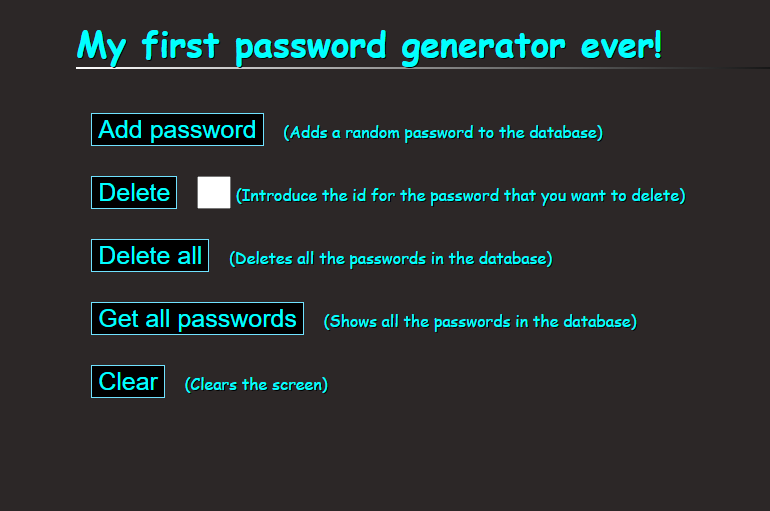
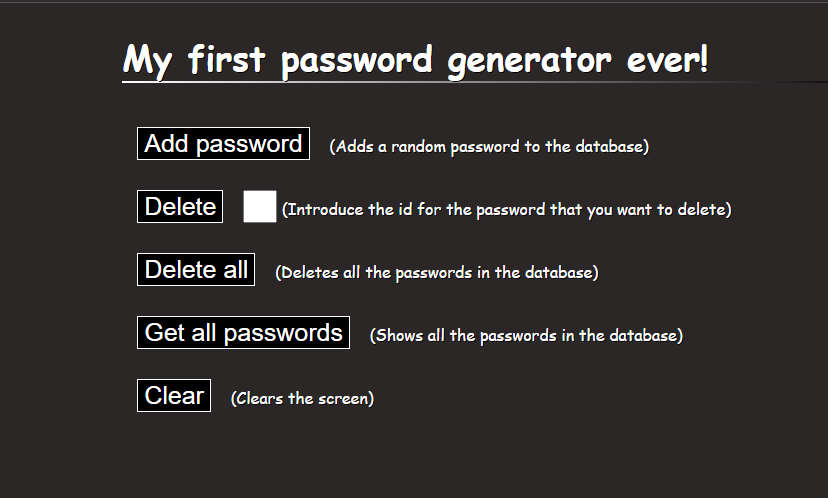
Changing image

Changed region(s): [[0.0935, 0.2108, 0.9039, 0.8434], [0.0935, 0.0602, 0.8727, 0.1807]]

diff --git a/src/main/resources/static/style.css b/src/main/resources/static/style.css
@@ -1,12 +1,12 @@
 body {
     background-color: rgb(44, 39, 39);
-    color: aqua;
+    color: white;
     font-family: cursive;
     text-shadow: 1px 1px rgb(0, 0, 0);
 }
 
 button:hover {
-    color: rgb(61, 232, 255);
+    color: white;
     border-color: rgb(255, 255, 255);
     ;
 }
@@ -28,9 +28,9 @@ button {
     margin: 15px;
     font-size: 25px;
     font-family: sans-serif;
-    border: 1px solid rgb(112, 226, 255);
+    border: 1px solid white;
     background-color: rgb(0, 0, 0);
-    color: aqua;
+    color: white;
 }
 
 h2 {

diff --git a/src/main/resources/static/index.html b/src/main/resources/static/index.html
@@ -11,7 +11,7 @@
     <div id="container">
         <h2>My first password generator ever!</h2>
         <button id="add" onclick="httpPut('http://localhost:8080/api/v1/passwords/put')">Add password</button>
-        <p>(Adds a random password to the database)</p>
+        <p id="getTag">(Adds a random password to the database)</p>
         <br>
         <button id="delete" onclick="httpDelete('http://localhost:8080/api/v1/passwords/delete')">Delete</button>
         <input id="passwordId" type="text" style="width: 3%;">

diff --git a/src/main/resources/static/index.js b/src/main/resources/static/index.js
@@ -25,9 +25,19 @@ function httpGet(url) {
        
 
    );}
+
+
   
 
 function httpPut(url) {
+    var pTag = document.getElementById("getTag");
+    pTag.style.color="aqua";
+    pTag.style.fontSize="22px";
+    pTag.style.transition="all 1.5s"
+    setTimeout( function(){ 
+        pTag.style.fontSize="1em";
+        pTag.style.color="white";
+    },2000);
     var xml = new XMLHttpRequest();
     xml.open("Put", url, false);
     xml.send(null);
